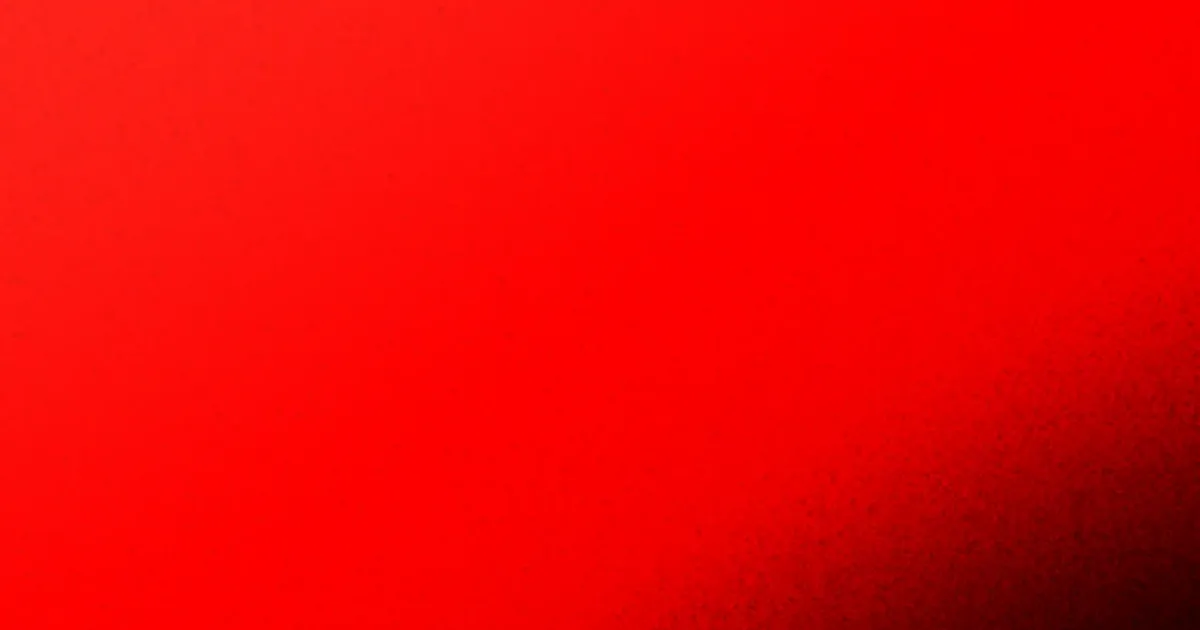
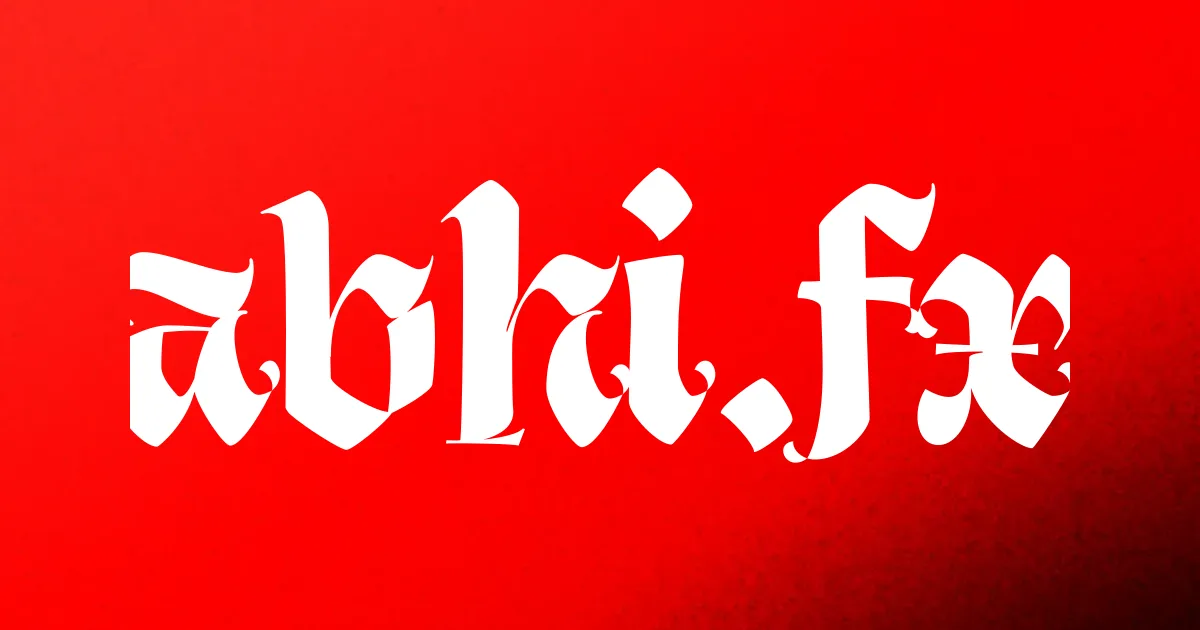
Refine portfolio visuals and interactions

Changed region(s): [[0.0925, 0.2714, 0.8942, 0.754]]

diff --git a/README.md b/README.md
@@ -1,8 +1,8 @@
-# Video editor portfolio
+# abhi.fx portfolio
 
 A complete React, TypeScript, and Vite portfolio adapted to the visual layout of [melon.studio](https://melon.studio/). It includes the red grain background, oversized Le Kick wordmark, Early Sans typography, floating navigation, liquid text reveals, perspective project rail, light About section, and the reference's contact and footer composition.
 
-Five owner-supplied videos are integrated from `videos/papon portfolio/` in the requested order: `FIRST.mp4`, `SECOND.mp4`, `THIRD.mp4`, `FOURTH.mp4`, `FIFTH.mp4`. Their content-derived titles describe Liquid Death branding, OfficeMoM, landing-page conversion, Admoji, and the time behind a business. Concise descriptions are configured alongside the titles. The gallery preserves portrait and landscape formats and uses selected, compressed video-frame posters. Six-second muted previews are generated separately; expanded playback uses the original files. FIRST serves as the temporary showreel until a dedicated reel is supplied. The editor branding, biography, services, software, testimonials, availability, and contact details remain editable placeholders. The reference owner's identity, biography, clients, and reviews are not used as portfolio content.
+Five owner-supplied videos are integrated from `videos/papon portfolio/` in the requested order: `FIRST.mp4`, `SECOND.mp4`, `THIRD.mp4`, `FOURTH.mp4`, `FIFTH.mp4`. Their content-derived titles describe Liquid Death branding, OfficeMoM, landing-page conversion, Admoji, and the time behind a business. Concise descriptions are configured alongside the titles. The gallery preserves portrait and landscape formats and uses selected, compressed video-frame posters. Six-second muted previews are generated separately; expanded playback uses the original files. FIRST serves as the temporary showreel until a dedicated reel is supplied. The abhi.fx branding is configured centrally. Biography, services, software, testimonials, availability, and contact details remain editable placeholders. The reference owner's identity, biography, clients, and reviews are not used as portfolio content.
 
 ## Run locally
 
@@ -57,7 +57,6 @@ PAPON PORTFOLIO/
       scrollRuntime.ts        Continuous scroll values and motion coordination
       bootRuntime.ts          Weighted loading readiness and opening handoff
       loadingMarble.ts        Rotating WebGL stone and gray studio environment
-      dustText.ts             Lazy glyph sampling and directional dust formation
       usePinnedScene.ts       Responsive staged scroll measurements
       motionSettings.ts       Shared reference reveal timing and easing
     data/
@@ -131,7 +130,7 @@ Actual filenames identify projects until custom metadata is supplied. For a port
 
 ## Design and reference assets
 
-The loading screen renders a rotating black marble in a gray studio environment with procedural stone veining, reflected lights, and a soft floor shadow. Fine, continuously advected grain gives the environment subtle motion without a repeating frame cycle. Its bottom-right percentage reflects weighted readiness milestones for fonts, poster decoding, Motion, the background, gallery, and marble renderer. A 2.5-second minimum hold is measured from initial mounting; readiness that takes longer releases the scene immediately. The hold is 2 seconds for reduced motion. Matching desktop and phone artwork, rendered from the same shader, covers initialization and unsupported WebGL devices; the fallback has a compact moving grain texture. Reduced motion keeps the marble and grain still. The completed loader fades into the opening, then restores scrolling and keyboard access.
+The loading screen renders a rotating black marble in the original matte gray studio environment with procedural stone veining, reflected lights, and a soft floor shadow. Its bottom-right percentage reflects weighted readiness milestones for fonts, poster decoding, Motion, the background, gallery, and marble renderer. A 2.5-second minimum hold is measured from initial mounting; readiness that takes longer releases the scene immediately. The hold is 2 seconds for reduced motion. Matching desktop and phone artwork covers initialization and unsupported WebGL devices. Reduced motion keeps the marble still. The completed loader fades into the opening, then restores scrolling and keyboard access.
 
 The original downloaded archive in `references/` is preserved. Selected styles are copied to `reference/css/`, with local asset paths adapted for the portfolio. The original font kit's URLs were used to recover the actual Early Sans and Le Kick font files; the frontend serves them locally.
 
@@ -139,9 +138,9 @@ The grain gradient uses the reference's Paper shaders, with a local texture fall
 
 Lenis provides controlled wheel momentum with a responsive follow rate. Phones retain native touch scrolling. Native hash, keyboard, and scrollbar movements are adopted before the next wheel gesture. Section backgrounds transition through a perceptual colour space, with text contrast maintained throughout. Navigation hides on downward scrolling and returns when scrolling up or receiving keyboard focus. Links use the reference's rolling text and arrow feedback. Body copy reveals through individually measured line masks with the reference's quartic easing and desktop/phone timing. Service headings and separator rules reveal independently; descriptions expand smoothly. Liquid section headings retain their reference effect.
 
-The biography forms from directional dust sampled from the actual rendered font and word positions. Particle paths, opacity, and soft sprites vary while following the scroll sequence. Words settle progressively into sharp DOM text. Once formed, the text stays crisp when scrolling back; the particle bitmap and activity observers are released. The renderer loads near the section, caps particle density and resolution, and pauses while hidden or while the viewer is open. Reduced motion and unavailable canvas rendering retain static, readable typography.
+The biography retains the original red liquid text reveal from the reference, using per-word blur and alpha thresholds that resolve into sharp text as the section enters.
 
-The scroll experience has three staged sequences, built with native sticky positioning and Motion values. The opening holds briefly while the wordmark and background move into a closer camera view and the introduction hands off to the project rail. On desktops where its content fits, About holds while its dust lettering forms. The showreel uncovers, moves out of the offset grid, and scales into a centered theater frame that fits the viewport. Opening and theater compositions restore when reversing; completed biography text remains stable. Phone sequences use shorter travel, and long About content stays in normal flow. Reduced motion and the static HTML fallback disable pinning and camera movement. Hidden hero actions become inactive until scrolling back brings them into view.
+The scroll experience has three staged sequences, built with native sticky positioning and Motion values. The opening holds briefly while the wordmark and background move into a closer camera view and the introduction hands off to the project rail. On desktops where its content fits, About holds while its red liquid lettering resolves. The showreel uncovers, moves out of the offset grid, and scales into a centered theater frame that fits the viewport. The original compositions and liquid reveal restore when reversing. Phone sequences use shorter travel, and long About content stays in normal flow. Reduced motion and the static HTML fallback disable pinning and camera movement. Hidden hero actions become inactive until scrolling back brings them into view.
 
 The design follows the supplied reference: `DESIGN_VARIANCE: 8`, `MOTION_INTENSITY: 8`, `VISUAL_DENSITY: 3`. Native CSS preserves its typography, spacing, colours, and section layouts; Motion handles interaction and scroll values. The motion intensity reflects the curved project surface, liquid lettering, masked line reveals, and coordinated image reveals. The reference easing functions and reveal timings are centralized in `src/lib/motionSettings.ts`. Preview-image provenance is recorded in `reference/images/sources.json`.
 
@@ -157,7 +156,7 @@ The reference's inline mobile navigation is retained when it fits; phones below 
 
 Layouts have been checked at 1440x900, 1280x720, 1280x600, 768x1024, 768x600, 390x844, 320x720, and 320x600. Short screens retain visible hero actions; the background mask is separate from the readable introduction and links. All sections were inspected at desktop and phone sizes. Reduced motion disables liquid effects, parallax, and automatic previews and freezes the background animation; the native gallery retains correct caption spacing when WebGL is unavailable.
 
-Browser checks with all five supplied clips verified their order, autoplay, custom controls, muted playback, lazy video sources, category filters, portrait and landscape presentation, seeking, fullscreen, keyboard dismissal, backdrop dismissal, and focus restoration on desktop and phone. Additional layouts passed at 1280x600, 768x1024, 320x600, and 844x390. Loading holds measured approximately 2.5 seconds with zero startup video requests. Reduced motion and unavailable WebGL preserve readable text and usable playback. Production startup and static preview-video paths are checked separately. Verification scripts and screenshots are kept in the ignored `.qa/` folder.
+Browser checks with all five supplied clips verified their order, autoplay, custom controls, muted playback, lazy video sources, category filters, portrait and landscape presentation, seeking, fullscreen, keyboard dismissal, backdrop dismissal, and focus restoration on desktop and phone. Additional layouts passed at 1280x600, 768x1024, 320x600, and 844x390. Loading holds measured approximately 2.5 seconds with zero startup video requests. Reduced motion preserves readable text; unavailable WebGL retains the native gallery and usable playback. Production startup and static preview-video paths are checked separately. Verification scripts and screenshots are kept in the ignored `.qa/` folder.
 
 SEO and social-sharing metadata come from the central configuration. Production emits prerendered page markup and hydrates it in React. Local fonts and responsive 640px, 960px, and full-size compressed posters are bundled into the site; actual videos are requested only when a preview or player is activated. Motion features and the gallery renderer load separately.
 
